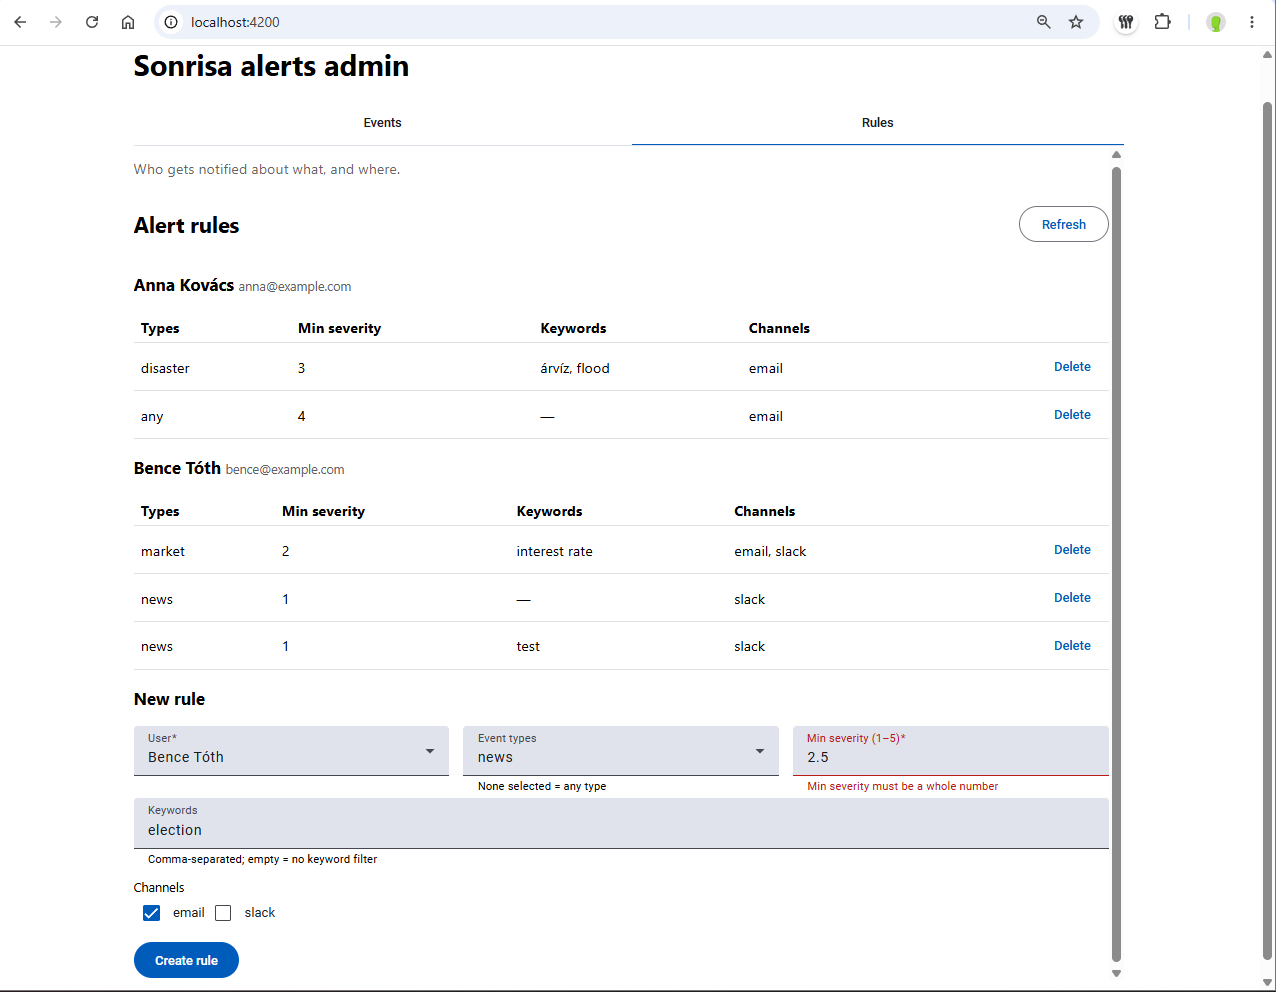
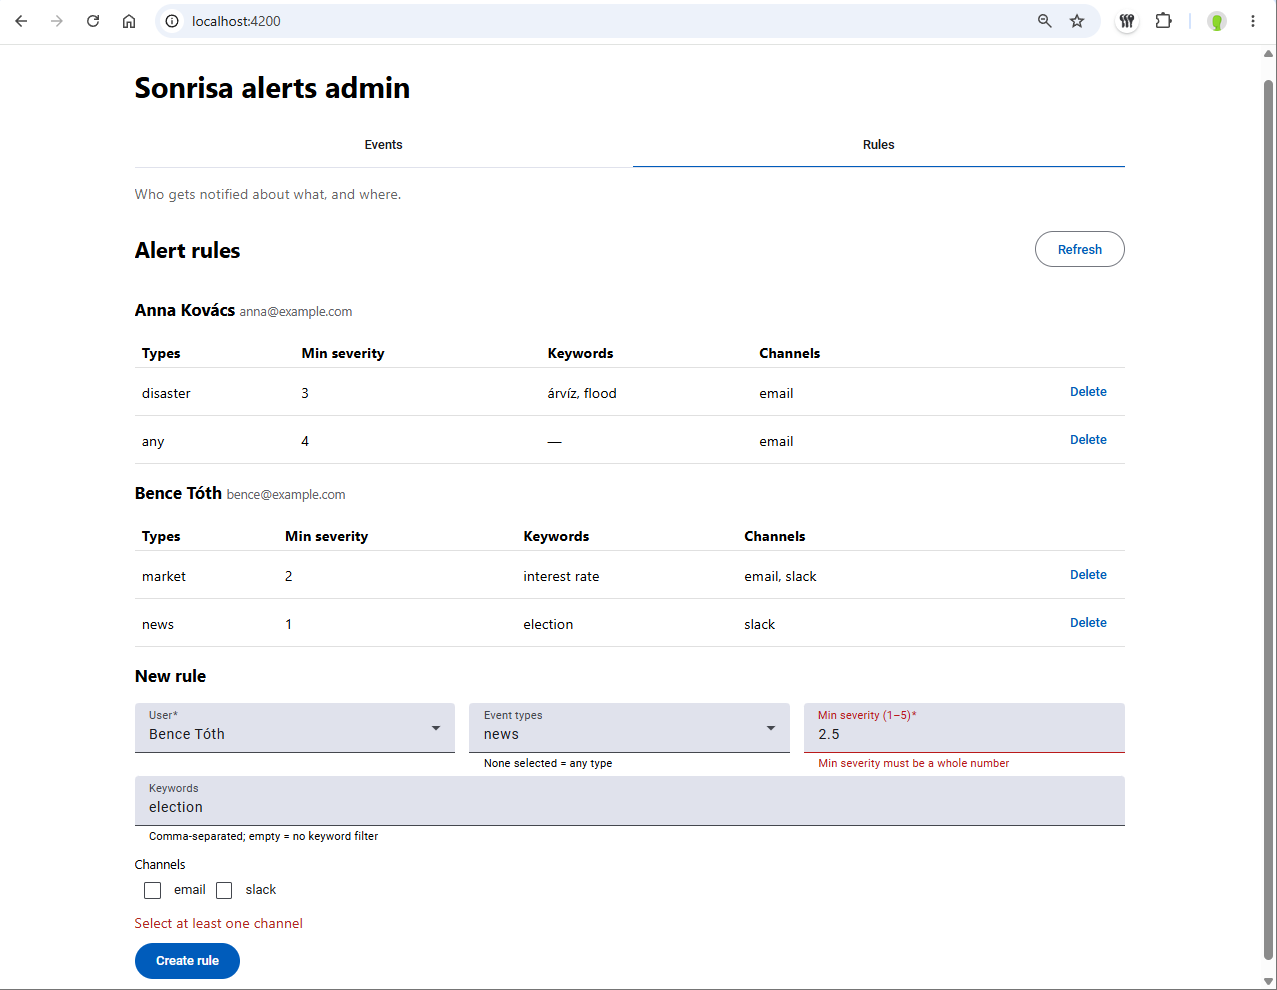
docs: M7 pre-review, README update for rules and tabs
Adds the M7 pre-review report and triage (row 29), documents the Rules and Events tabs, the rule API and a rule round-trip demo in the README, and updates test counts, bundle size and time spent.

diff --git a/README.md b/README.md
@@ -36,7 +36,9 @@ The seed creates these rules. A rule matches when all its conditions hold; an em
 | R2 | Anna Kovács | any | 4 | — | email |
 | R3 | Bence Tóth | market | 2 | interest rate | email, slack |
 
-Inject these from the admin page (every field except Tags is required; Tags is comma-separated), or send the matching file from `demo/` with curl:
+The admin page has two tabs. **Rules** lists each user's rules, deletes them and creates new ones (channels are offered from the API, so a newly registered channel appears without UI changes). **Events** injects an event and shows the delivery log.
+
+Inject these on the Events tab (every field except Tags is required; Tags is comma-separated), or send the matching file from `demo/` with curl:
 
 | # | Type | Sev | Title | Summary | Tags | Result | Shows |
 |---|---|---|---|---|---|---|---|
@@ -52,6 +54,8 @@ curl -s localhost:3000/api/deliveries
 
 The files are pure ASCII (`\u` escapes for Hungarian letters), so the text arrives intact from any Windows shell; typing accented text into a curl command line may not. Only one rule id per delivery is visible; that R1 and R2 both matched in case 2 is what the dedup unit tests in `apps/api/src/matching/plan-deliveries.spec.ts` cover — the visible part is that Anna gets one email, not two.
 
+**Rule round trip (D31):** on the Rules tab create a rule for Bence — type news, min severity 1, keyword `election`, channel slack. On the Events tab inject news / 2 / "Election results announced" → one Slack delivery to Bence. Delete the rule and inject the same event again → no delivery.
+
 **Failure isolation (D22):**
 
 1. Stop the API (Ctrl+C in its terminal).
@@ -66,13 +70,13 @@ The files are pure ASCII (`\u` escapes for Hungarian letters), so the text arriv
 
 ## How it works
 
-`POST /api/events` validates and stores the event, loads all rules, plans deliveries with two pure functions (`matchesRule`, `planDeliveries`), sends each one through the channel registry and stores one delivery row per user and channel — all inside the request. A failing channel produces a `failed` row, never a failed request. `GET /api/deliveries` returns the latest 100 rows with event and user details. Details and "at larger scale" notes: `docs/02-design.md`.
+`POST /api/events` validates and stores the event, loads all rules, plans deliveries with two pure functions (`matchesRule`, `planDeliveries`), sends each one through the channel registry and stores one delivery row per user and channel — all inside the request. A failing channel produces a `failed` row, never a failed request. `GET /api/deliveries` returns the latest 100 rows with event and user details. Rules are managed with `GET /api/users` (users with their rules), `POST /api/rules` (validated: known user, registered channels, keywords with at least one letter or digit, size limits) and `DELETE /api/rules/:id`; `GET /api/channels` lists the registered channels. Details and "at larger scale" notes: `docs/02-design.md`.
 
 **Adding a channel** is one class implementing `NotificationChannel` (`id` + `send(alert)`) and one entry in the factory in `apps/api/src/channels/channels.module.ts`. The pipeline, matcher and entities do not change — Slack was added this way in M3.
 
 ```
 apps/api     NestJS 12, TypeORM 0.3, Postgres — events, rules, matching, channels, delivery log
-apps/admin   Angular 22, Material — inject-event form + delivery log table
+apps/admin   Angular 22, Material — Events tab (inject form + delivery log), Rules tab (rules + new-rule form)
 demo/        request bodies for the demo cases
 docs/        plan, assumptions, design, decisions, AI review log, review reports
 prompts/     every prompt sent to Claude Code: raw.md (verbatim, by hook), log.md (summary + outcome)
@@ -84,10 +88,11 @@ prompts/     every prompt sent to Claude Code: raw.md (verbatim, by hook), log.m
 1. `docs/00-plan.md` — how I read the brief, milestones, the re-plan after M2
 2. `docs/scoping-notes.md` — the pre-build scoping session: what the AI proposed, what I overrode
 3. `docs/01-assumptions.md` — what the brief left open, and the non-goals with "how it would be added"
-4. `docs/03-decision-log.md` — D01–D30, each with the rejected alternative
+4. `docs/03-decision-log.md` — D01–D31, each with the rejected alternative
 5. `docs/04-ai-review-log.md` — every meaningful AI output, how I checked it, the verdict; recurring failure patterns at the end
-6. `docs/reviews/` — AI pre-review reports (M2 retroactive, M3, M4)
-7. `prompts/` and `CLAUDE.md` — what Claude Code was told, and the rules it worked under. Documentation drafted by the second assistant (a desktop chat that reviewed Claude Code's output) was written straight into the repo and has no prompt-log entry — see "How I use the AI" in `docs/00-plan.md`.
+6. `docs/reviews/` — AI pre-review reports (M2 retroactive, M3, M4, M7) and the fresh-clone README test (M6)
+7. `docs/screenshots/` — the admin view during the M7 manual test
+8. `prompts/` and `CLAUDE.md` — what Claude Code was told, and the rules it worked under. Documentation drafted by the second assistant (a desktop chat that reviewed Claude Code's output) was written straight into the repo and has no prompt-log entry — see "How I use the AI" in `docs/00-plan.md`.
 
 **Working loop per milestone:** I decide scope and design (in a separate chat, recorded in the decision log) → a pre-approved prompt to Claude Code → it reports real command output → `feat:` commit → `/review main` in a fresh session (`.claude/commands/review.md`, D27) → I triage every finding → manual run of the app → `fix:` commit → `docs:` commit → PR, merged by me. The AI never pushes or merges; `main` is branch-protected.
 
@@ -101,9 +106,10 @@ prompts/     every prompt sent to Claude Code: raw.md (verbatim, by hook), log.m
 | AI pre-review loop (D27) | — | 17:46–18:01 |
 | M3 Slack + review fixes | 45 min | 18:01–18:41, ~40 min incl. manual run |
 | M4 admin view + review fixes | 1.5h | 18:41–19:38, ~1h incl. manual UI test |
-| M6 README, patterns, retro | 1h | from 19:40 |
+| M6 README, patterns, retro, fresh-clone test | 1h | 19:40–21:36, ~2h |
+| M7 rule management (after re-checking the brief) | 1h | 22:30–23:05, then (next morning) 05:40–06:20 manual test, tabs and review fixes; ~1.25h |
 
-Hands-on total up to M4: about 7.5h (10:15–19:38 minus the 15:30–17:30 break).
+Hands-on total: about 7.5h up to M4 (10:15–19:38 minus the 15:30–17:30 break), about 11h including M6 and M7.
 
 The original plan totalled ~15h for a brief that describes a short feature. That ratio was a planning error; after M2 the scope was cut and time-boxed (D26). The largest single cost was M1's dependency crash; the largest avoidable cost was polishing documentation in several passes instead of once per milestone.
 
@@ -115,4 +121,5 @@ The original plan totalled ~15h for a brief that describes a short feature. That
 - Event and delivery rows are not written in one transaction (D22).
 - Slack uses one shared webhook, so the message names the recipient (D28).
 - TypeORM `synchronize` instead of migrations; schema sync can print a `pg` deprecation warning at startup, typically once the tables exist (D23, D24).
-- Unit tests only (api 42, admin 19); no end-to-end tests (D26). The admin bundle is ~554 kB against a 500 kB warning budget (D29).
+- Unit tests only (api 62, admin 42); no end-to-end or HTTP-level tests through Nest's pipes (D26, M7 pre-review #4). The admin bundle is ~646 kB against a 500 kB warning budget (D29).
+- Rules are managed by the operator in the admin view; there is no end-user login or self-service UI (A4, D31).

diff --git a/prompts/log.md b/prompts/log.md
@@ -416,3 +416,34 @@ Do not start dev servers — I will test the UI myself. Do not commit.
 4. app.spec.ts: title, both tab labels, Events content, and rules panel after selecting the Rules tab.
 5. Run admin build and test, then git diff --stat.
 **Outcome:** App now shows the title and a mat-tab-group with Events (description, inject form, delivery log refreshed by created) and Rules (description, rules panel) tabs, both lazy via matTabContent; the section wrappers and their spacing are gone and no other component changed. app.spec.ts checks the title, both tab labels, the Events tab content with no rules panel, and the rules panel after clicking the Rules tab. The first spec version failed because the lazy tab body only attaches after a 100 ms fallback timer that whenStable does not wait for, and the tab test harness did not help either; the spec now provides MATERIAL_ANIMATIONS with animationsDisabled. Admin test exit 0 (39 tests), build exit 0 with the existing budget warning (initial 645.97 kB). Not committed.
+
+## 2026-09-17T04:09:48.131Z — M7
+**Prompt (verbatim):** /review main
+**Summary (EN):** Read-only pre-screen review of the feat/m7-rules diff against main, reported as a findings table with a verdict.
+**Outcome:** Read-only review of main...HEAD (apps/ diff, 3 commits); no blockers or majors, 7 minor findings (punctuation-only keywords saved but never matching, duplicate channel ids, no size caps on rule arrays, untested controller wiring and channel-load error, untested log refresh after the tab move, form helpers imported from inject-event-form). Verdict: merge. No files edited besides this entry, nothing committed.
+
+## 2026-09-17T04:11:11.024Z — M7
+**Prompt (verbatim):** Save your report above verbatim to docs/reviews/m7-pre-review.md. Change nothing else except your prompts/log.md entry.
+**Summary (EN):** Save the M7 pre-review report verbatim to docs/reviews/m7-pre-review.md.
+**Outcome:** Wrote the M7 pre-review report verbatim to docs/reviews/m7-pre-review.md; no other file changed besides this entry, nothing committed.
+
+## 2026-09-17T04:13:36.562Z — M7
+**Prompt (verbatim):** Fix the M7 findings. Work on feat/m7-rules. Pre-approved; stop only if a build or test fails and you cannot fix it within this scope. Do not run git commands that change the working tree (CLAUDE.md).
+
+From docs/reviews/m7-pre-review.md (all accepted except #4, which is deferred under D26):
+1. #1 POST /api/rules: after trimming, a keyword with no letter or digit (/[\p{L}\p{N}]/u) is rejected with 400 "Keywords need at least one letter or digit: <list>". Empty entries are still dropped silently. Spec case.
+2. #2 Save channels deduplicated, keeping first-seen order. Spec case.
+3. #3 CreateRuleDto: keywords ArrayMaxSize(20), each MaxLength(100); channels ArrayMaxSize(10), each MaxLength(50). DTO spec cases for both limits.
+4. #5 create-rule-form.spec.ts: /api/channels returns 500 → the "Could not load channels" message is shown.
+5. #6 app.spec.ts: an event created from the Events tab triggers a second GET /api/deliveries.
+6. #7 Move `parseTags` (rename to `parseCommaList`) and `wholeNumber` from inject-event-form.ts to a new `form-utils.ts`; update both forms and their specs.
+
+From my manual UI test (docs/04-ai-review-log.md row 28):
+7. After "Rule created." the reset form shows "User is required": reset through the FormGroupDirective (`resetForm()` with the initial values) so the form leaves the submitted state. Test: after a successful create, no mat-error is rendered.
+8. The Rules tab shows a second, inner scrollbar. Make the tab bodies grow with their content so only the page scrolls (e.g. `dynamicHeight` on the tab group or a CSS fix scoped to the app). Say which one you chose and why.
+
+Then run lint/build/test for api and build/test for admin; paste exit codes, test counts and the admin bundle size.
+Commit only apps/ as `fix: M7 pre-review and manual test findings` with body: "Rejects keywords without letters or digits, deduplicates channels, limits rule sizes, moves form helpers to form-utils, resets the rule form through its directive, removes the inner tab scrollbar, and adds the missing tests, as found by the M7 pre-review and a manual UI run."
+Do not start dev servers. Paste git log --oneline -3 and git status --short. Do not push.
+**Summary (EN):** Fix the accepted M7 pre-review findings and the two manual UI defects, run api lint/build/test and admin build/test, and commit apps/ as a fix: commit.
+**Outcome:** POST /api/rules now rejects trimmed keywords without a letter or digit (400 listing them) and saves channels deduplicated in first-seen order; CreateRuleDto caps keywords at 20 x 100 chars and channels at 10 x 50 chars, with spec cases for both limits. parseTags became parseCommaList and moved with wholeNumber to form-utils.ts; new specs cover the channel-load error and the delivery log reload after an event is created. The rule form now resets through FormGroupDirective.resetForm() (the non-nullable controls restore their initial values without passing them); its new no-mat-error spec failed on the old code first. The inner scrollbar is fixed with dynamicHeight on mat-tab-group, the built-in option, instead of overriding Material CSS. api lint/build/test exit 0 (62 tests), admin build exit 0 (initial 646.10 kB, existing budget warning), admin test exit 0 (42 tests). Committed apps/ as e848182; docs and prompts left uncommitted, not pushed.

diff --git a/docs/reviews/m7-pre-review.md b/docs/reviews/m7-pre-review.md
@@ -1,0 +1,27 @@
+# Review of `feat/m7-rules` against `main`
+
+I found no blockers and no majors, only 7 minor issues. The API and the admin page match `02-design.md` (the M7 paragraph) and decisions D23, D29 and D31. I only added my entry to `prompts/log.md` and committed nothing.
+
+The branch has 3 commits and changes 39 files (+1250/−30). In `apps/` it adds four endpoints, the rules panel and the create-rule form, and the Events/Rules tabs.
+
+## Findings
+
+| # | Severity | file:line | Finding | Evidence | Suggested fix |
+|---|---|---|---|---|---|
+| 1 | minor | apps/api/src/rules/rules.controller.ts:43 | A keyword made only of punctuation (e.g. `"!!!"`) gets saved. It has no letters or digits, so it never matches a title or summary, and only matches a tag spelled exactly the same. A rule whose only keyword is like that stays silent, and nothing warns the user. | Controller: `.map((keyword) => keyword.trim()).filter((keyword) => keyword.length > 0)`. Matcher, match-rule.ts:26: `if (sequence.length === 0) return false;` | In the controller, drop or reject keywords that contain no letter or digit (`/[\p{L}\p{N}]/u`), and add a spec case. |
+| 2 | minor | apps/api/src/rules/rules.controller.ts:44 | Duplicate channel ids like `["email","email"]` are stored as given. Dedup (D19) prevents a double send, but the rules table then shows "email, email". | `channels: dto.channels,` | Save `[...new Set(dto.channels)]`, or add `@ArrayUnique()` to the DTO. |
+| 3 | minor | apps/api/src/rules/create-rule.dto.ts:20 | Nothing limits how many keywords or channels a rule has, or how long they are. `POST /api/rules` has no auth (D06), and the matcher tokenizes every keyword of every rule for every event, so an oversized rule slows every inject. | `@IsArray()` / `@IsString({ each: true })` with no `ArrayMaxSize` / `MaxLength` | Add `@ArrayMaxSize(…)` and `@MaxLength(…, { each: true })` to `keywords` and `channels`. |
+| 4 | minor | apps/api/src/rules/rules.controller.ts:51 | Some HTTP behaviour has no test. The specs call the controller methods directly, which skips Nest's pipes and decorators. Untested: a non-uuid id on DELETE (400), the 204 status, and `forbidNonWhitelisted` for the rule body. `ChannelsController` has no spec. | `async remove(@Param('id', ParseUUIDPipe) id: string)`. Spec: `await expect(controller.remove('r1'))`, where `'r1'` isn't even a uuid. | E2e tests are a recorded non-goal (D26), so a note is enough. If wanted: one small test that boots the Nest app with the global `ValidationPipe`. |
+| 5 | minor | apps/admin/src/app/create-rule-form.ts:57 | If loading channels fails, the form shows an error, but no test covers that path. | `error: () => this.channelsError.set('Could not load channels'),` (no spec matches this string) | Add a spec that returns 500 for `/api/channels` and checks `.field-error`. |
+| 6 | minor | apps/admin/src/app/app.html:8 | The log is now refreshed through `#log` inside a lazy tab template, but `app.spec.ts` only checks that both components exist. Nothing tests that injecting an event refreshes the log. | `<app-inject-event-form (created)="log.refresh()" />`. Spec: `expect(element().querySelector('app-delivery-log-table')).not.toBeNull();` | Add an App spec: emit `created` from the form and `expectOne('/api/deliveries')` a second time. |
+| 7 | minor | apps/admin/src/app/create-rule-form.ts:12 | The rule form imports helpers from another component's file, and `parseTags` is used on keywords, so the name is misleading. The `errorMessages` helper was already moved to its own file in this diff, so the pattern exists. | `import { parseTags, wholeNumber } from './inject-event-form';` … `keywords: parseTags(keywords)` | Move both helpers to a shared file, e.g. rename `parseTags` to `parseCommaList` in `form-utils.ts`. |
+
+## By category
+- **Correctness against the design:** only #1 and #2. The status codes (400 listing unknown channels, 404, 204), keyword trimming, the `createdAt, id` rule order and the two-query user load all match `02-design.md`.
+- **Error handling:** no unhandled promise paths. Failed loads, creates and deletes all set an error signal. The panel refreshes after a failed delete. `errorMessages` now also passes through 404 messages, which harmlessly affects the inject form too.
+- **Security:** only #3. No secrets and no new logging. The global `ValidationPipe` whitelist covers the new DTO, and the 404 message only echoes a uuid that has already been validated.
+- **Tests:** #4, #5 and #6.
+- **Scope creep:** none. The rule management follows D31, and the tabs were asked for in the follow-up prompt.
+- **Dead code, duplication, names:** #7. The `UserWithRules` type exists in both api and admin, but D29 records and accepts that duplication.
+
+**Verdict: merge.** All seven are minor. #1 is the only one that changes what a user sees, so it's worth a quick fix.

diff --git a/docs/04-ai-review-log.md b/docs/04-ai-review-log.md
@@ -32,6 +32,7 @@ What the AI produced, how I checked it, what I did with it. One row per meaningf
 | 26 | M6 | README, followed from a fresh clone by a new Claude Code session (Opus) that had only the README — report in `docs/reviews/m6-readme-test.md` | AI pre-review + ran it | accepted with edits | Setup, all four demo cases and failure isolation worked. One real defect: the README's curl used literal UTF-8 and said `\u` escapes protect it — on Windows the title was garbled, and case 2 still showed "one email" only because R2 matched by severity, so the demo looked right for the wrong reason. Also: summary was required but not in the demo table, tags format unstated, no note that the dev servers need separate terminals, unclear `.env` steps, no reset step, and "R1 and R2 both match" not checkable from the API. Fixed: ASCII request files in `demo/` sent with `--data-binary`, a full demo table, step-by-step failure isolation, reset line, reworded dedup claim. Side effect: the clone's prompt hook appended to its own `raw.md`; not carried over. |
 | 27 | M7 | Rule management (API + admin rules panel) and CC's unrequested mutation check | read it | accepted with edits | While checking that its new tests fail on broken code, CC ran `git checkout -- .` in `apps/admin/src/app`, which reverted its own uncommitted changes in five files and left two deliberate breaks in `create-rule-form.ts`; it reported this and restored the files by hand. I did not rely on the green tests: I read the diffs of the five files (only M7 changes, M4 fixes intact), read `create-rule-form.ts`, the rules/users/channels controllers and the DTO, and checked for stashes, backup files and leftover markers — none. New `CLAUDE.md` rule: no git commands that touch the working tree. Unrequested but kept: shared `error-messages.ts` (now also 404), extra DTO and users tests, channel check before user lookup. Minor, left as is: `create-rule-form.ts` imports helpers from the inject-form component file; duplicate channel ids in a rule are accepted (harmless, the planner dedups); deleted rules leave their id in old delivery rows (no FKs, D23). |
 | 28 | M7 | Admin view after the tab split (Events / Rules) | manual test in UI | accepted with edits | Screenshots in `docs/screenshots/`. Market event → Bence email + slack; new rule (Bence, news, min 1, `election`, slack) listed on the Rules tab; the matching news event → "1 delivery" to Bence on slack; after deleting the rule the same event → "0 deliveries"; min severity 2.5 rejected in the form; failure isolation with SMTP on a closed port → email `failed`, slack `dry-run`. The single-page layout was hard to read, so it was split into tabs before these runs (`fix:` commit). Defects found: after "Rule created." the reset form shows "User is required" in red (the form is reset but stays in the submitted state); the Rules tab shows a second, inner scrollbar. |
+| 29 | M7 | AI pre-review of the M7 branch (`/review main`) — report in `docs/reviews/m7-pre-review.md` | AI pre-review + read it | accepted with edits | 7 minor findings, verdict "merge". Accepted and fixed in a `fix:` commit: #1 punctuation-only keywords were saved but can never match a title — now rejected with 400; #2 duplicate channel ids stored as given — deduplicated on save; #3 no size limits on keywords/channels of an unauthenticated endpoint — `ArrayMaxSize`/`MaxLength` added; #5 no test for the channel-load error; #6 no test that an inject refreshes the log inside the lazy tab; #7 form helpers imported from another component file — moved to `form-utils.ts`. #4 (HTTP-level tests through Nest pipes) deferred: e2e tests are a recorded non-goal (D26). As in M4, the reviewer missed both defects of my manual run (row 28): the reset form showing "User is required" and the inner scrollbar on the Rules tab — fixed in the same commit. |
 
 Verdict values: `accepted` · `accepted with edits` · `rejected` · `rewritten by me`
 

diff --git a/prompts/raw.md b/prompts/raw.md
@@ -423,3 +423,31 @@ Pre-approved; write your 3–6 line plan into the prompts/log.md entry (timestam
 1. `npm run build -w apps/admin` (exit code, bundle size) and `npm test -w apps/admin -- --watch=false` (exit code, test count)
 2. `git diff --stat`
 Do not start dev servers — I will test the UI myself. Do not commit.
+
+## 2026-09-17T04:09:48.131Z
+
+/review main
+
+## 2026-09-17T04:11:11.024Z
+
+Save your report above verbatim to docs/reviews/m7-pre-review.md. Change nothing else except your prompts/log.md entry.
+
+## 2026-09-17T04:13:36.562Z
+
+Fix the M7 findings. Work on feat/m7-rules. Pre-approved; stop only if a build or test fails and you cannot fix it within this scope. Do not run git commands that change the working tree (CLAUDE.md).
+
+From docs/reviews/m7-pre-review.md (all accepted except #4, which is deferred under D26):
+1. #1 POST /api/rules: after trimming, a keyword with no letter or digit (/[\p{L}\p{N}]/u) is rejected with 400 "Keywords need at least one letter or digit: <list>". Empty entries are still dropped silently. Spec case.
+2. #2 Save channels deduplicated, keeping first-seen order. Spec case.
+3. #3 CreateRuleDto: keywords ArrayMaxSize(20), each MaxLength(100); channels ArrayMaxSize(10), each MaxLength(50). DTO spec cases for both limits.
+4. #5 create-rule-form.spec.ts: /api/channels returns 500 → the "Could not load channels" message is shown.
+5. #6 app.spec.ts: an event created from the Events tab triggers a second GET /api/deliveries.
+6. #7 Move `parseTags` (rename to `parseCommaList`) and `wholeNumber` from inject-event-form.ts to a new `form-utils.ts`; update both forms and their specs.
+
+From my manual UI test (docs/04-ai-review-log.md row 28):
+7. After "Rule created." the reset form shows "User is required": reset through the FormGroupDirective (`resetForm()` with the initial values) so the form leaves the submitted state. Test: after a successful create, no mat-error is rendered.
+8. The Rules tab shows a second, inner scrollbar. Make the tab bodies grow with their content so only the page scrolls (e.g. `dynamicHeight` on the tab group or a CSS fix scoped to the app). Say which one you chose and why.
+
+Then run lint/build/test for api and build/test for admin; paste exit codes, test counts and the admin bundle size.
+Commit only apps/ as `fix: M7 pre-review and manual test findings` with body: "Rejects keywords without letters or digits, deduplicates channels, limits rule sizes, moves form helpers to form-utils, resets the rule form through its directive, removes the inner tab scrollbar, and adds the missing tests, as found by the M7 pre-review and a manual UI run."
+Do not start dev servers. Paste git log --oneline -3 and git status --short. Do not push.

diff --git a/docs/00-plan.md b/docs/00-plan.md
@@ -37,7 +37,7 @@ Consequences for how I work:
 | ~~M5~~ | ~~Tests on matcher + delivery orchestration.~~ Dropped: shipped with M2 (D26). | — | — |
 | M6 | README (setup, demo, time spent), process artifacts consolidated. | ~~2h~~ **1h** | see README |
 | ~~M7~~ | ~~Stretch: RSS event source.~~ Dropped: non-goal (D26). | — | — |
-| M7 | Rule management (API + admin panel), added after re-checking the work against the brief (D31). | 1h | |
+| M7 | Rule management (API + admin panel), added after re-checking the work against the brief (D31). | 1h | ~1.25h incl. tabs and review fixes |
 
 **Re-plan after M2 (D26):** actual time for M0–M2 was ~5h against a task the recruiter described in the screening call as usually taking 2–3 hours, and the original plan totalled ~15h. The remaining scope is cut and time-boxed rather than extended. The original rows are kept struck through so the change stays visible.
 
